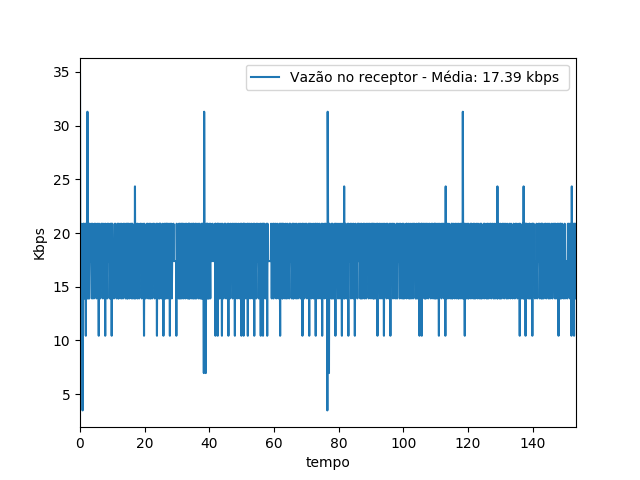
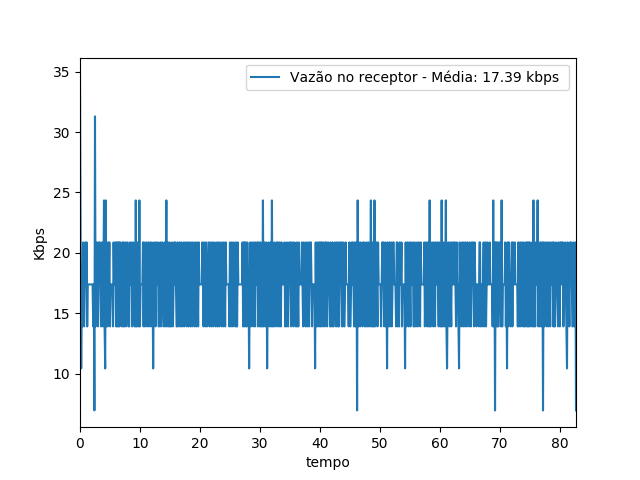
Correção de bugs

diff --git a/torrent.py b/torrent.py
@@ -34,7 +34,7 @@ PACOTE_REQUISICAO_DOWNLOAD_FALTANTES = 3;
 MODULO_ATRASO = True;
 
 #Ativação do módulo de envio Aleatório de pacotes
-ALEATORIO = False;
+ALEATORIO = True;
 
 enviolock = _thread.allocate_lock()
 recebimentolock = _thread.allocate_lock()
@@ -58,7 +58,7 @@ class Torrent(object):
         self.data_key_to_play = deque()
         self.tamfileplay = 28000;
         self.ultimopcttocado = 0;
-        self.buffersize=10;#porcentagem do arquivo que será buffer.
+        self.buffersize=5;#porcentagem do arquivo que será buffer.
         p = pyaudio.PyAudio()
         self.stream = p.open(format=8,channels=2,rate=44100,output=True)
         self.moduloatraso = ModuloAtraso();
@@ -265,14 +265,14 @@ class Torrent(object):
                 enviolock.release()
                 aux = aux+1
     def envia_arquivo_para_cliente(self,namefile,addr,opcao=0,faltantes=[]):
-        if opcao==0:
-            song = AudioSegment.from_file('sender/'+namefile, format="mp3")
-            lamb = 20;
-            tamfile=len(song);
-            npacotes = tamfile//20; #TODO Testar isso aqui.
-            if (tamfile%20!=0):
-                npacotes = npacotes+1;
-            if len(faltantes) == 0:
+        song = AudioSegment.from_file('sender/'+namefile, format="mp3")
+        lamb = 20;
+        tamfile=len(song);
+        npacotes = tamfile//20; #TODO Testar isso aqui.
+        if (tamfile%20!=0):
+            npacotes = npacotes+1;
+        if len(faltantes) == 0:
+            if opcao==0:
                 x=0;
                 while(x*lamb<tamfile):
                     if np.random.rand()>0.2:
@@ -313,61 +313,63 @@ class Torrent(object):
                         x = x+1;
                     time.sleep(0.02);
             else:
-                for cont in faltantes:
-                    datasender = [];
-                    datasender.append(PACOTE_PLAY_AUDIO);
-                    datasender.append(cont);
-                    datasender.append(npacotes)
-                    datasender.append(song[cont*lamb:cont*lamb+lamb].raw_data)
-                    data_string = pickle.dumps(datasender);
-                    enviolock.acquire()
-
-                    if MODULO_ATRASO:
-                        self.sock.sendto(data_string,(addr[0],12001));
-                    else:
-                        self.sock.sendto(data_string,addr);
-                    enviolock.release()
-                    logginglock.acquire()
-                    logging.info('%d$PKTENVIADO',cont);
-                    logginglock.release()
-                    time.sleep(0.02);
-            del song
-        else:
-            song = AudioSegment.from_file('sender/'+namefile, format="mp3")
-            lamb = 20;
-            tamfile=len(song);
-            npacotes = tamfile//20; #TODO Testar isso aqui.
-            if (tamfile%20!=0):
-                npacotes = npacotes+1;
-            
-            pacotesenviados = deque()
-            contpkg = 0
-            npacotesparcial = npacotes
-            while contpkg< npacotes:
-                sorteado = np.random.randint(npacotes+1)
-                if sorteado in pacotesenviados:
-                    
-                    insertposition = bisect.bisect(pacotesenviados,sorteado)
-                    '''
-                    listpacotes = list(pacotesenviados)
-                    for aux in range(pacotesenviados,npacotesparcial)
-                        if listpacotes[aux] +1 != listpacotes[aux]
-                    '''
-                    #print(list(range(sorteado,npacotesparcial)))
-                    setfaltantes = set(list(range(sorteado,npacotesparcial))).difference(set(list(pacotesenviados)[insertposition:]))
-                    listfaltantes = list(setfaltantes)
-                    if(len(listfaltantes))==0:
-                        npacotesparcial = soteado-1
-                    else:
+                song = AudioSegment.from_file('sender/'+namefile, format="mp3")
+                lamb = 20;
+                tamfile=len(song);
+                npacotes = tamfile//20; #TODO Testar isso aqui.
+                if (tamfile%20!=0):
+                    npacotes = npacotes+1;
+                
+                pacotesenviados = deque()
+                contpkg = 0
+                npacotesparcial = npacotes
+                while contpkg< npacotes:
+                    sorteado = np.random.randint(npacotes+1)
+                    if sorteado in pacotesenviados:
                         
-                        insertposition = bisect.bisect(pacotesenviados,listfaltantes[0])
-                        pacotesenviados.insert(insertposition,listfaltantes[0])
+                        insertposition = bisect.bisect(pacotesenviados,sorteado)
+                        '''
+                        listpacotes = list(pacotesenviados)
+                        for aux in range(pacotesenviados,npacotesparcial)
+                            if listpacotes[aux] +1 != listpacotes[aux]
+                        '''
+                        #print(list(range(sorteado,npacotesparcial)))
+                        setfaltantes = set(list(range(sorteado,npacotesparcial))).difference(set(list(pacotesenviados)[insertposition:]))
+                        listfaltantes = list(setfaltantes)
+                        if(len(listfaltantes))==0:
+                            npacotesparcial = soteado-1
+                        else:
+                            
+                            insertposition = bisect.bisect(pacotesenviados,listfaltantes[0])
+                            pacotesenviados.insert(insertposition,listfaltantes[0])
+                            contpkg = contpkg+1
+                            datasender = [];
+                            datasender.append(PACOTE_PLAY_AUDIO);
+                            datasender.append(listfaltantes[0]);
+                            datasender.append(npacotes)
+                            datasender.append(song[listfaltantes[0]*lamb:listfaltantes[0]*lamb+lamb].raw_data)
+                            data_string = pickle.dumps(datasender);
+                            enviolock.acquire()
+
+                            if MODULO_ATRASO:
+                                self.sock.sendto(data_string,(addr[0],12001));
+                            else:
+                                self.sock.sendto(data_string,addr);
+                            enviolock.release()
+                            logginglock.acquire()
+                            logging.info('%d$PKTENVIADO',listfaltantes[0]);
+                            logginglock.release()
+                            print('%d$PKTENVIADO',listfaltantes[0])
+                            time.sleep(0.02);
+                    else:
                         contpkg = contpkg+1
+                        insertposition = bisect.bisect(pacotesenviados,sorteado)
+                        pacotesenviados.insert(insertposition,sorteado)
                         datasender = [];
                         datasender.append(PACOTE_PLAY_AUDIO);
-                        datasender.append(listfaltantes[0]);
+                        datasender.append(sorteado);
                         datasender.append(npacotes)
-                        datasender.append(song[listfaltantes[0]*lamb:listfaltantes[0]*lamb+lamb].raw_data)
+                        datasender.append(song[sorteado*lamb:sorteado*lamb+lamb].raw_data)
                         data_string = pickle.dumps(datasender);
                         enviolock.acquire()
 
@@ -377,32 +379,31 @@ class Torrent(object):
                             self.sock.sendto(data_string,addr);
                         enviolock.release()
                         logginglock.acquire()
-                        logging.info('%d$PKTENVIADO',listfaltantes[0]);
+                        logging.info('%d$PKTENVIADO',sorteado);
                         logginglock.release()
-                        print('%d$PKTENVIADO',listfaltantes[0])
+                        print('%d$PKTENVIADO',sorteado)
                         time.sleep(0.02);
-                else:
-                    contpkg = contpkg+1
-                    insertposition = bisect.bisect(pacotesenviados,sorteado)
-                    pacotesenviados.insert(insertposition,sorteado)
-                    datasender = [];
-                    datasender.append(PACOTE_PLAY_AUDIO);
-                    datasender.append(sorteado);
-                    datasender.append(npacotes)
-                    datasender.append(song[sorteado*lamb:sorteado*lamb+lamb].raw_data)
-                    data_string = pickle.dumps(datasender);
-                    enviolock.acquire()
+        else:
+            for cont in faltantes:
+                datasender = [];
+                datasender.append(PACOTE_PLAY_AUDIO);
+                datasender.append(cont);
+                datasender.append(npacotes)
+                datasender.append(song[cont*lamb:cont*lamb+lamb].raw_data)
+                data_string = pickle.dumps(datasender);
+                enviolock.acquire()
 
-                    if MODULO_ATRASO:
-                        self.sock.sendto(data_string,(addr[0],12001));
-                    else:
-                        self.sock.sendto(data_string,addr);
-                    enviolock.release()
-                    logginglock.acquire()
-                    logging.info('%d$PKTENVIADO',sorteado);
-                    logginglock.release()
-                    print('%d$PKTENVIADO',sorteado)
-                    time.sleep(0.02);
+                if MODULO_ATRASO:
+                    self.sock.sendto(data_string,(addr[0],12001));
+                else:
+                    self.sock.sendto(data_string,addr);
+                enviolock.release()
+                logginglock.acquire()
+                logging.info('%d$PKTENVIADO',cont);
+                logginglock.release()
+                time.sleep(0.02);
+        del song
+    
     def __del__(self):
         print("Matando meu objeto");
     def play(self):
@@ -443,13 +444,13 @@ class Torrent(object):
                     elif tamfaltantes < tamfaltantesanterior:
                         aux = list(listfaltantes)
                         random.shuffle(aux)
-                        self.requisicaodeArquivosFaltantes(self.arquivo_to_play,aux[:20])
-                        time.sleep(2);
+                        self.requisicaodeArquivosFaltantes(self.arquivo_to_play,aux[:200])
+                        time.sleep(4);
                     else:
                         aux = list(listfaltantes)
                         random.shuffle(aux)
-                        self.requisicaodeArquivosFaltantes(self.arquivo_to_play,aux[:50])
-                        time.sleep(4);
+                        self.requisicaodeArquivosFaltantes(self.arquivo_to_play,aux[:300])
+                        time.sleep(6);
                     tamfaltantesanterior = tamfaltantes;
                 logginglock.acquire()
                 logging.info("$PLAYBUFFERING")

diff --git a/randomdelay.py b/randomdelay.py
@@ -12,7 +12,7 @@ class RandomDelay:
 
     def __init__(self, nElems):
         #f chance de perder um pacote
-        self.f = 0.5
+        self.f = 0.2
         self.elems = range(0,nElems)
         self.vals = []
 
